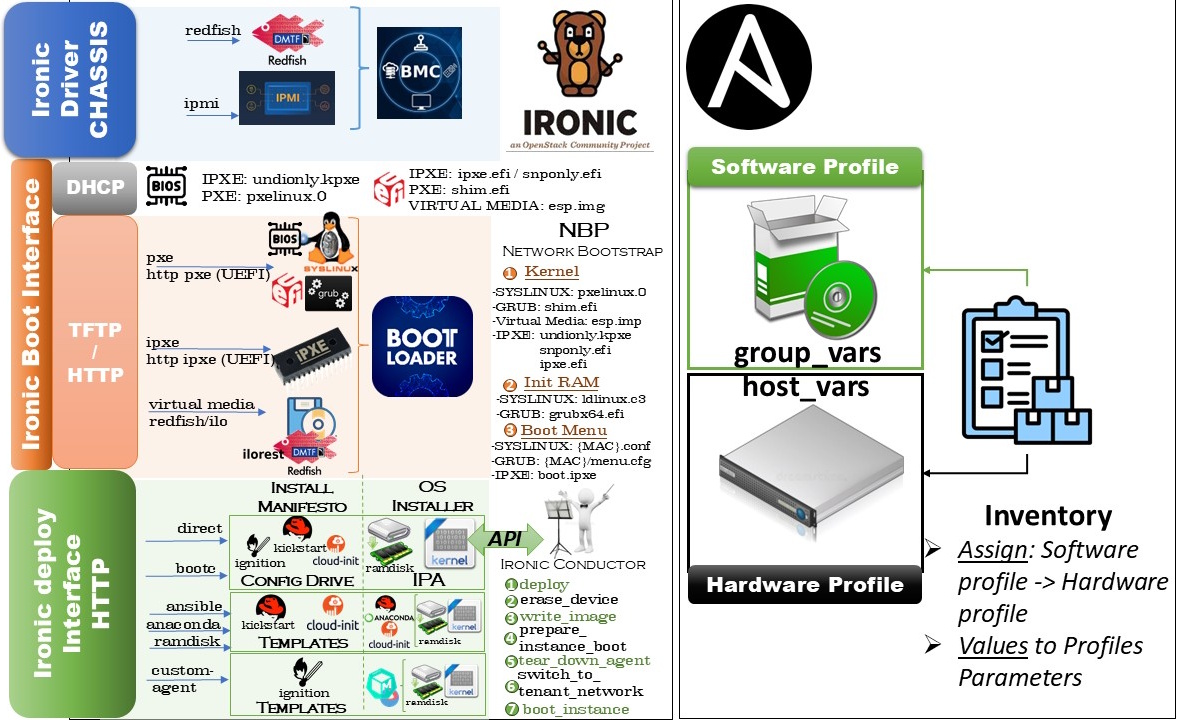
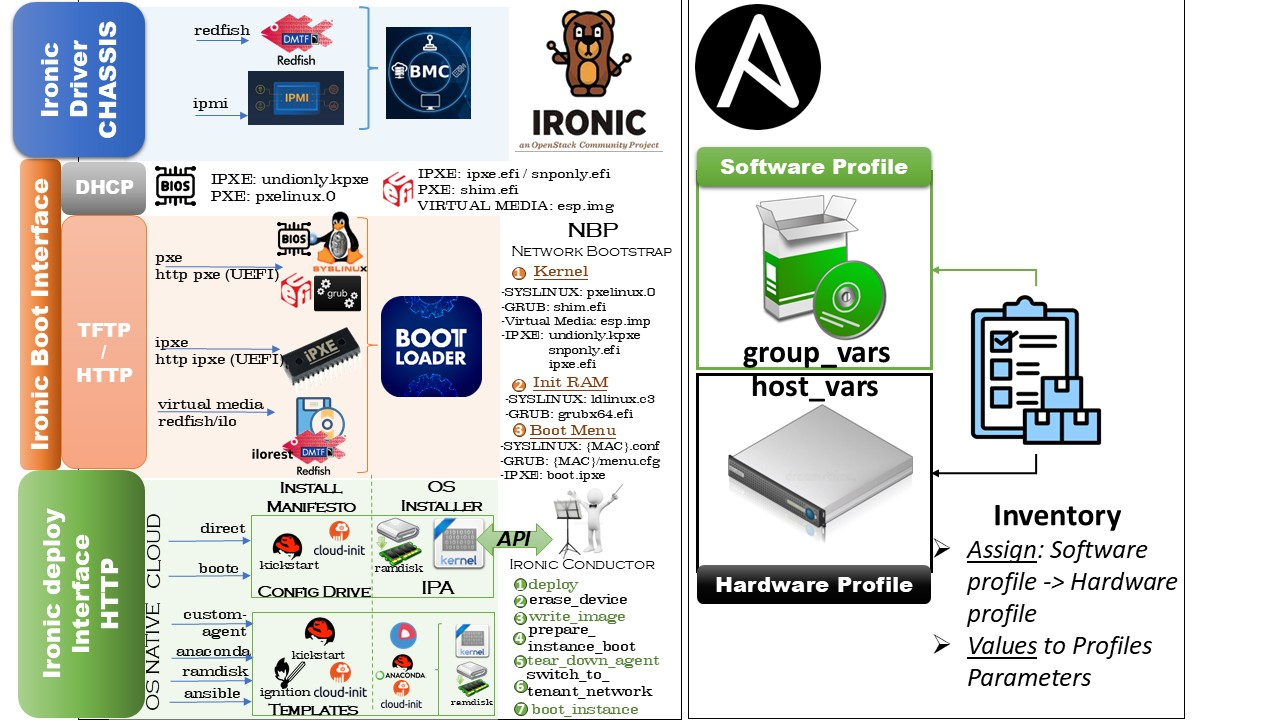
README: test cases

Changed region(s): [[0.0, 0.0, 1.0, 1.0]]

diff --git a/README.md b/README.md
@@ -1,5 +1,9 @@
 # Genesis Node Project
-## Goal 
+## Mision
+- **Bootstrap Data-Center Control Plane**, from scratch to install or restore at any moment (just as AT&T Airship Genesis does, but much easier to understand).
+- **Hardware Certification Test Suites and Resulting Configuration Blueprints**, automation requires a single control API (provided by Ironic in this case), hardware lifecycle need to be fully integrated into this API.
+
+## Vision
 - **PoC (Proof of Concept)**: adopt Telco Cloud Anuket  [standards](https://cntt.readthedocs.io/en/stable-kali/common/chapter00.html) and [tooling](https://ec.europa.eu/newsroom/repository/document/2025-9/TelcoCloudReferenceArchitecture_v7_L8XM9LekTSnxgxb9NgJkBBifw_113237.pdf) for Software Factories management.
 
 ## Supported Platforms
@@ -11,8 +15,8 @@
 - 2) Use genesisCli menu to run steps of the Genesis Node Lifecycle
 - 3) Configurations:
     + 3.1.- hosts/{environment} => Hardware & Software Profiles of your machines (becareful defining them well, in hosts/test examples of each deployment use case)
-    + 3.2.- hosts/target        => Genesis Node Customizations, including the list of operating systems you want to deploy and the type of image:
-     	- __Image Types:__ {iso/qcow-img/raw}.
+    + 3.2.- hosts/target        => Genesis Node Customizations, including the list of operating systems you want to deploy and the type of image (os native installer or cloud installer):
+     	- __Image Types:__ *os installer:* iso ; *cloud installer:* partition(qcow/img)/wholedisk(raw)
 		- __Install manifestos:__ {cloud-init/kickstart/ignition} depending on the OS installer used.	
 		- __Install manifestos Provisioning:__ {backed-in/config-drive/tftp-http}.
 		
@@ -26,9 +30,9 @@
 ![Genesis](./doc/genesis.jpg)
 
 ## Ironic and Ansible usage in Genesis Node
-- **Deploy Stage Setup**: this node life cycle stage established how do you inject OS to instance, based on two interfaces:
+- **Deploy Stage Setup**: this node life cycle stage establish how do you inject OS to instance, based on two interfaces:
  + __Boot Interface:__ depends on hardware particulars of the machine
- + __Deploy Interface:__ depends of the kind of image you want to deploy, since involve different installers and how do you provide the installer manifesto.
+ + __Deploy Interface:__ dependes on tupe of os installer native os/cloud.
 
 ![Ironic](./doc/ironic.jpg)
 
